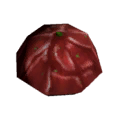
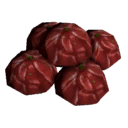
refactor(frontend) fix template searching, update database images

diff --git a/www/src/ts/virtualMachine/device/template.ts b/www/src/ts/virtualMachine/device/template.ts
@@ -20,7 +20,7 @@ import { customElement, property, query, state } from "lit/decorators.js";
 import { BaseElement, defaultCss } from "components";
 
 import { connectionFromConnectionInfo } from "./dbutils";
-import { crc32, displayNumber, parseNumber, structuralEqual } from "utils";
+import { crc32, displayNumber, isSome, parseNumber, structuralEqual } from "utils";
 import SlInput from "@shoelace-style/shoelace/dist/components/input/input.component.js";
 import SlSelect from "@shoelace-style/shoelace/dist/components/select/select.component.js";
 import { VMDeviceCard } from "./card";
@@ -76,16 +76,16 @@ export class VmObjectTemplate extends VMObjectMixin(BaseElement) {
     `,
   ];
 
-  fields: Signal<Record<LogicType, number>>;
-  slots: Signal<SlotTemplate[]>;
-  pins: Signal<(ObjectID | undefined)[]>;
-  template: Signal<FrozenObject>;
-  objectId: Signal<number | undefined>;
-  objectName: Signal<string | undefined>;
-  connections: Signal<Connection[]>;
+  fields: Signal<Record<LogicType, number>> = signal(null);
+  slots: Signal<SlotTemplate[]> = signal([]);
+  pins: Signal<(ObjectID | null)[]> = signal(null);
+  template: Signal<FrozenObject> = signal(null);
+  objectId: Signal<number | null> = signal(null);
+  objectName: Signal<string | null> = signal(null);
+  connections: Signal<Connection[]> = signal([]);
 
   private prefabNameSignal = signal(null);
-  private prefabHashSignal = computed(() => crc32(this.prefabNameSignal.value));
+  private prefabHashSignal = computed(() => crc32(this.prefabNameSignal.value ?? ""));
 
   get prefabName(): string {
     return this.prefabNameSignal.peek();
@@ -114,6 +114,10 @@ export class VmObjectTemplate extends VMObjectMixin(BaseElement) {
   constructor() {
     super();
     this.dbTemplate.subscribe(() => this.setupState())
+    this.prefabNameSignal.subscribe(() => this.setupState());
+    this.networkOptions.subscribe((_) => {
+      this.forceSelectUpdate(this.networksSelectRef);
+    })
   }
 
   setupState() {
@@ -122,8 +126,8 @@ export class VmObjectTemplate extends VMObjectMixin(BaseElement) {
     this.fields.value = Object.fromEntries(
       (
         Array.from(
-          "logic" in dbTemplate
-            ? Object.entries(dbTemplate.logic.logic_types)
+          isSome(dbTemplate) && "logic" in dbTemplate
+            ? dbTemplate.logic.logic_types.entries()
             : [],
         ) as [LogicType, MemoryAccess][]
       ).map(([lt, access]) => {
@@ -134,7 +138,7 @@ export class VmObjectTemplate extends VMObjectMixin(BaseElement) {
     ) as Record<LogicType, number>;
 
     this.slots.value = (
-      ("slots" in dbTemplate ? dbTemplate.slots ?? [] : []) as SlotInfo[]
+      (isSome(dbTemplate) && "slots" in dbTemplate ? dbTemplate.slots ?? [] : []) as SlotInfo[]
     ).map(
       (slot, _index) =>
         ({
@@ -144,7 +148,7 @@ export class VmObjectTemplate extends VMObjectMixin(BaseElement) {
     );
 
     const connections = (
-      "device" in dbTemplate
+      isSome(dbTemplate) && "device" in dbTemplate
         ? dbTemplate.device.connection_list
         : ([] as ConnectionInfo[])
     ).map(
@@ -163,27 +167,30 @@ export class VmObjectTemplate extends VMObjectMixin(BaseElement) {
     this.connections.value = connections.map((conn) => conn[1]);
 
     const numPins =
-      "device" in dbTemplate ? dbTemplate.device.device_pins_length : 0;
+      isSome(dbTemplate) && "device" in dbTemplate ? dbTemplate.device.device_pins_length : 0;
     this.pins.value = new Array(numPins).fill(undefined);
   }
 
-  renderFields(): HTMLTemplateResult {
-    const fields = Object.entries(this.fields);
-    return html`
-      ${fields.map(([name, field], _index, _fields) => {
+  fieldsHtml = computed(() => {
+    const fields = Object.entries(this.fields.value);
+    fields.map(([name, field], _index, _fields) => {
       return html`
           <sl-input
             key="${name}"
-            value="${displayNumber(field.value)}"
+            value="${displayNumber(field)}"
             size="small"
             @sl-change=${this._handleChangeField}
             ?disabled=${name === "PrefabHash"}
           >
             <span slot="prefix">${name}</span>
-            <span slot="suffix">${field.field_type}</span>
           </sl-input>
         `;
-    })}
+    });
+  });
+
+  renderFields(): HTMLTemplateResult {
+    return html`
+      ${watch(this.fieldsHtml)}
     `;
   }
 
@@ -191,7 +198,7 @@ export class VmObjectTemplate extends VMObjectMixin(BaseElement) {
     const input = e.target as SlInput;
     const field = input.getAttribute("key")! as LogicType;
     const val = parseNumber(input.value);
-    this.fields.value = { ...this.fields.value, [field]: val};
+    this.fields.value = { ...this.fields.value, [field]: val };
     if (field === "ReferenceId" && val !== 0) {
       this.objectIDSignal.value = val;
     }
@@ -224,38 +231,34 @@ export class VmObjectTemplate extends VMObjectMixin(BaseElement) {
     return vm?.state.networkIds.value.map(net => html`<sl-option value=${net}>Network ${net}</sl-option>`);
   });
 
-  renderNetworks() {
-    const vm = window.VM.vm;
-    this.networkOptions.subscribe((_) => {
-     this.forceSelectUpdate(this.networksSelectRef);
-    })
-    const connections = computed(() => {
-      this.connections.value.map((connection, index, _conns) => {
-        const conn =
-          typeof connection === "object" && "CableNetwork" in connection
-            ? connection.CableNetwork
-            : null;
-        return html`
-          <sl-select
-            hoist
-            placement="top"
-            clearable
-            key=${index}
-            value=${conn?.net}
-            ?disabled=${conn === null}
-            @sl-change=${this._handleChangeConnection}
-            ${ref(this.networksSelectRef)}
-          >
-            <span slot="prefix">Connection:${index} </span>
-            ${watch(this.networkOptions)}
-            <span slot="prefix"> ${conn?.typ} </span>
-          </sl-select>
-        `;
-      });
+  connectionsHtml = computed(() => {
+    this.connections.value?.map((connection, index, _conns) => {
+      const conn =
+        typeof connection === "object" && "CableNetwork" in connection
+          ? connection.CableNetwork
+          : null;
+      return html`
+        <sl-select
+          hoist
+          placement="top"
+          clearable
+          key=${index}
+          value=${conn?.net}
+          ?disabled=${conn === null}
+          @sl-change=${this._handleChangeConnection}
+          ${ref(this.networksSelectRef)}
+        >
+          <span slot="prefix">Connection:${index} </span>
+          ${watch(this.networkOptions)}
+          <span slot="prefix"> ${conn?.typ} </span>
+        </sl-select>
+      `;
     });
+  });
+  renderNetworks() {
     return html`
       <div class="networks">
-        ${watch(connections)}
+        ${watch(this.connectionsHtml)}
       </div>
     `;
   }
@@ -271,7 +274,7 @@ export class VmObjectTemplate extends VMObjectMixin(BaseElement) {
 
   private _pinsSelectRefMap: Map<number, Ref<SlSelect>> = new Map();
 
-  getPinRef(index: number) : Ref<SlSelect> {
+  getPinRef(index: number): Ref<SlSelect> {
     if (!this._pinsSelectRefMap.has(index)) {
       this._pinsSelectRefMap.set(index, createRef());
     }
@@ -359,8 +362,8 @@ export class VmObjectTemplate extends VMObjectMixin(BaseElement) {
 
   render() {
     const device = this.dbTemplate;
-    const prefabName = computed(() => device.value.prefab.prefab_name);
-    const name = computed(() => device.value.prefab.name);
+    const prefabName = computed(() => device.value?.prefab.prefab_name ?? "");
+    const name = computed(() => device.value?.prefab.name ?? "");
     return html`
       <sl-card class="template-card">
         <div class="header h-20 w-96" slot="header">

diff --git a/www/src/ts/virtualMachine/device/slotAddDialog.ts b/www/src/ts/virtualMachine/device/slotAddDialog.ts
@@ -11,6 +11,7 @@ import {
   ItemInfo,
   ObjectInfo,
   ObjectTemplate,
+  TemplateDatabase,
 } from "ic10emu_wasm";
 import { computed, ReadonlySignal, signal, Signal, watch } from "@lit-labs/preact-signals";
 import { repeat } from "lit/directives/repeat.js";
@@ -47,7 +48,7 @@ export class VMSlotAddDialog extends VMObjectMixin(BaseElement) {
     this._filter.value = val;
   }
 
-  templateDB = computed(() => {
+  templateDB = computed((): TemplateDatabase => {
     return this.vm.value?.state.templateDB.value ?? null;
   });
 
@@ -55,7 +56,7 @@ export class VMSlotAddDialog extends VMObjectMixin(BaseElement) {
     let last: { [k: string]: SlotableItemTemplate } = null;
     return computed(() => {
       const next = Object.fromEntries(
-        Array.from(Object.values(this.templateDB.value ?? {})).flatMap((template) => {
+        Array.from(this.templateDB.value?.values() ?? []).flatMap((template) => {
           if ("item" in template) {
             return [[template.prefab.prefab_name, template]] as [
               string,
@@ -82,7 +83,7 @@ export class VMSlotAddDialog extends VMObjectMixin(BaseElement) {
       if (isSome(obj)) {
         const template = obj.template;
         const slot = "slots" in template ? template.slots[this.slotIndex.value] : null;
-        const typ = slot.typ;
+        const typ = slot?.typ;
 
         if (typeof typ === "string" && typ !== "None") {
           filtered = Array.from(Object.values(this.items.value)).filter(
@@ -238,10 +239,6 @@ export class VMSlotAddDialog extends VMObjectMixin(BaseElement) {
     const div = e.currentTarget as HTMLDivElement;
     const key = parseInt(div.getAttribute("key"));
     const entry = this.templateDB.value.get(key) as SlotableItemTemplate;
-    const obj = window.VM.vm.state.getObject(this.objectID);
-    const dbTemplate = obj.peek().template;
-    console.log("using entry", dbTemplate);
-
     const template: FrozenObject = {
       obj_info: {
         prefab: entry.prefab.prefab_name,
@@ -301,8 +298,8 @@ export class VMSlotAddDialog extends VMObjectMixin(BaseElement) {
   }
 
   _handleDialogHide() {
-    this.objectID = undefined;
-    this.slotIndex = undefined;
+    this.objectIDSignal.value = null;
+    this.slotIndex.value = null;
   }
 
   private slotIndex: Signal<number> = signal(0);

diff --git a/www/src/ts/virtualMachine/device/addDevice.ts b/www/src/ts/virtualMachine/device/addDevice.ts
@@ -54,7 +54,7 @@ export class VMAddDeviceButton extends VMObjectMixin(BaseElement) {
     let last: Map<string, LogicableStructureTemplate> = null
     return computed(() => {
       const next = new Map(
-        Array.from(Object.values(this.templateDB.value ?? {})).flatMap((template) => {
+        Array.from(this.templateDB.value?.values() ?? []).flatMap((template) => {
           if ("structure" in template && "logic" in template) {
             return [[template.prefab.prefab_name, template]] as [
               string,
@@ -244,7 +244,7 @@ export class VMAddDeviceButton extends VMObjectMixin(BaseElement) {
           (result) =>
             html`
           <vm-device-template
-            prefab_name=${result.entry.prefab.prefab_name}
+            prefabName=${result.entry.prefab.prefab_name}
             class="card"
             @add-device-template=${this._handleDeviceAdd}
           >

diff --git a/www/src/ts/virtualMachine/state.ts b/www/src/ts/virtualMachine/state.ts
@@ -526,7 +526,12 @@ export class VMState {
     if (!this.signalCacheHas(key)) {
       const s = computed((): number => {
         const obj = this.getObject(id).value;
-        return [...obj?.obj_info.device_pins?.keys() ?? []].length;
+        const template = obj?.template;
+        let numPins = [...obj?.obj_info.device_pins?.keys() ?? []].length;
+        if (isSome(template) && "device" in template) {
+          numPins = template.device.device_pins_length ?? 0;
+        }
+        return numPins;
       });
       this.signalCacheSet(key, s);
       return s;

diff --git a/www/src/ts/virtualMachine/controls.ts b/www/src/ts/virtualMachine/controls.ts
@@ -76,7 +76,7 @@ export class VMICControls extends VMObjectMixin(SignalWatcher(BaseElement)) {
     }
     this.selectUpdateTimeout = setTimeout(() => {
       if (this.activeICSelect.value != null) {
-        this.activeICSelect.value.value = this.activeIC.value.toString();
+        this.activeICSelect.value.value = this.activeIC.value?.toString() ?? "";
         this.activeICSelect.value.handleValueChange();
       }
     }, 100);

diff --git a/www/src/ts/utils.ts b/www/src/ts/utils.ts
@@ -55,7 +55,7 @@ export function crc32(str: string): number {
 
 export function numberToString(n: number): string {
   if (isZeroNegative(n)) return "-0";
-  return n.toString();
+  return n?.toString() ?? `${n}`;
 }
 export function displayNumber(n: number): string {
   return numberToString(n).replace("Infinity", "∞");

diff --git a/www/src/ts/virtualMachine/device/pins.ts b/www/src/ts/virtualMachine/device/pins.ts
@@ -81,7 +81,7 @@ export class VMDevicePins extends VMObjectMixin(BaseElement) {
         }
       );
     });
-    return pinsHtml;
+    return html`${watch(pinsHtml)}`;
   }
 
   _handleChangePin(e: CustomEvent) {
